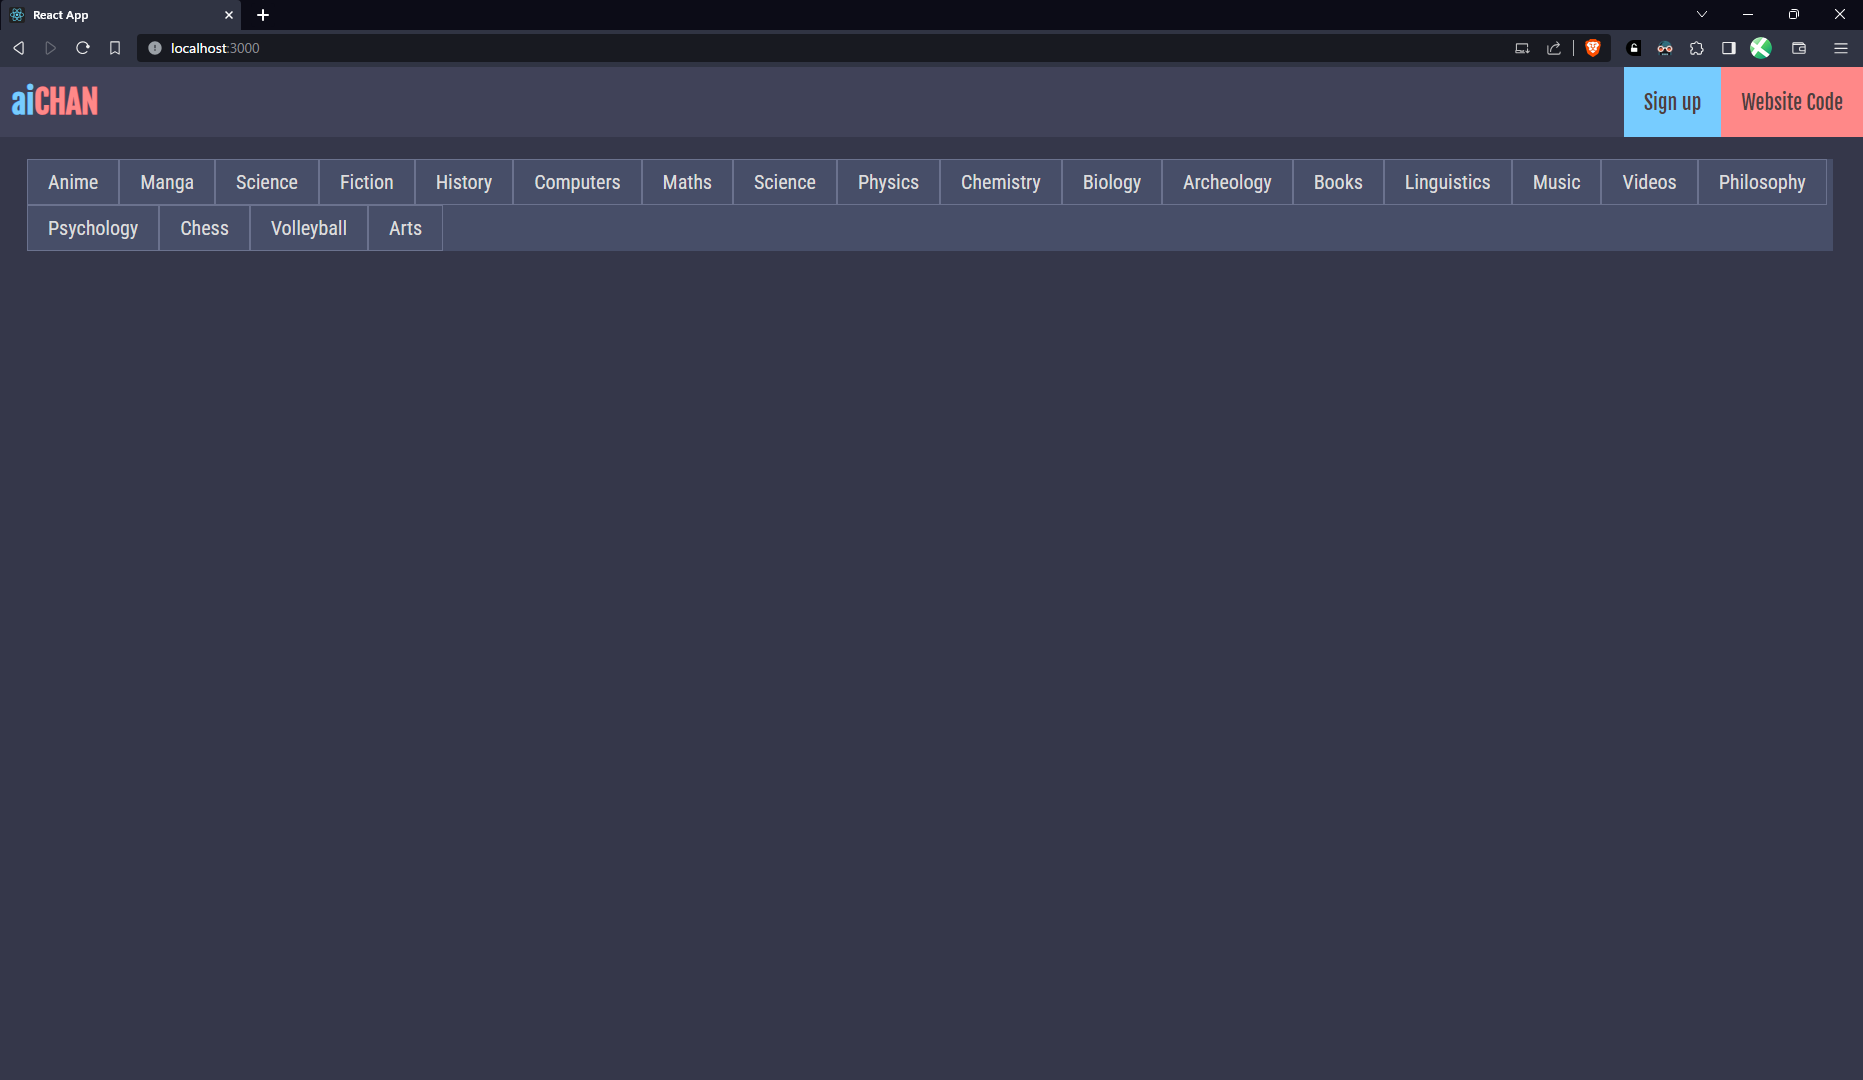
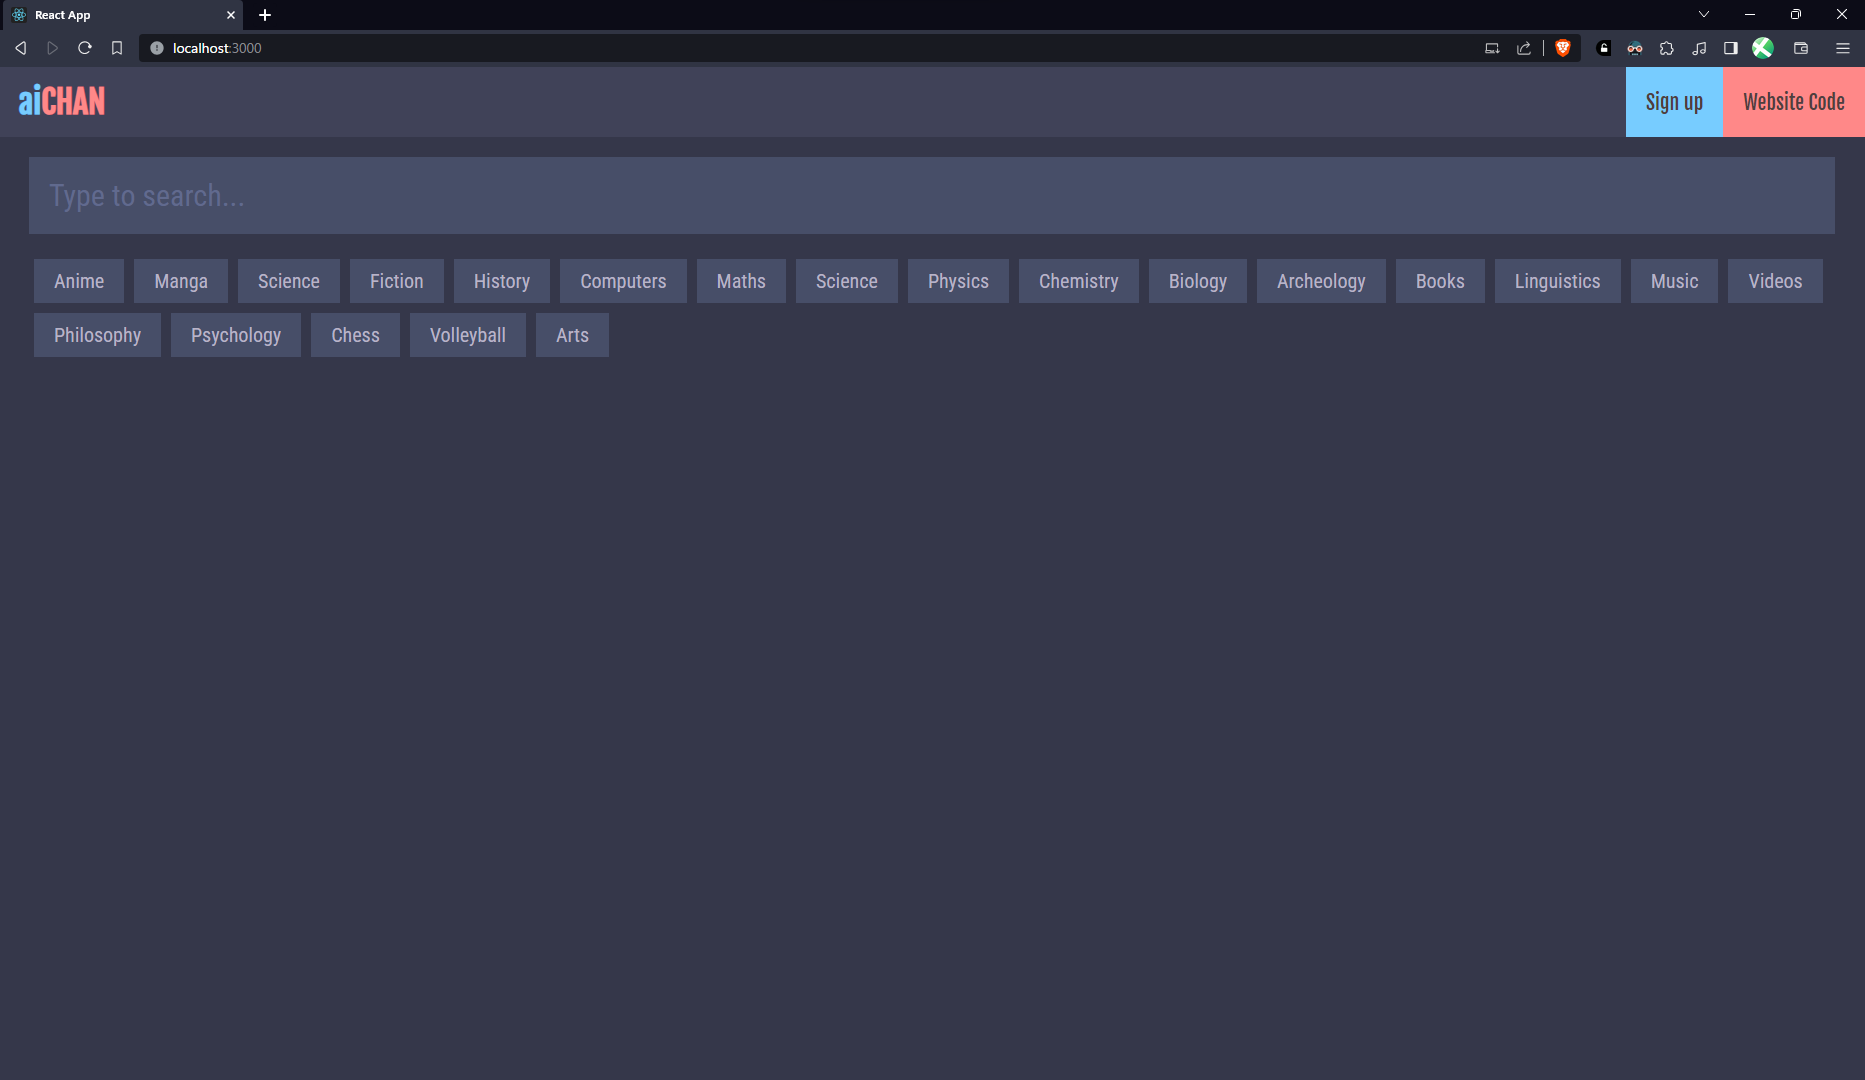
added search box (css just) (does not work as of yet)

diff --git a/react-app/src/App.js b/react-app/src/App.js
@@ -1,18 +1,19 @@
 import './App.css';
+import {SearchBar} from './components/SearchBar.js'
 
 function Navbar() {
   return (
-      <div className="banner">
-        <h1 className="aichan">ai<span className="rose-text">CHAN</span></h1>
-        <div className="banner-buttons">    
-          <a href="https://github.com/Ninth-Circle/aichan" target="_blank">
-            <button className="banner-button blue-background">Sign up</button>
-          </a>
-          <a href="https://github.com/Ninth-Circle/aichan" target="_blank">
-            <button className="banner-button rose-background">Website Code</button>
-          </a>
-        </div>
+    <div className="banner">
+      <h1 className="aichan">ai<span className="rose-text">CHAN</span></h1>
+      <div className="banner-buttons">    
+        <a href="https://github.com/Ninth-Circle/aichan" target="_blank">
+          <button className="banner-button blue-background">Sign up</button>
+        </a>
+        <a href="https://github.com/Ninth-Circle/aichan" target="_blank">
+          <button className="banner-button rose-background">Website Code</button>
+        </a>
       </div>
+    </div>
   );
 }
 
@@ -25,10 +26,17 @@ function BoardContainer() {
   return (<div className="board-container">{boardButtons}</div>);
 }
 
+function SearchBarContainer() {
+  return (
+    <div className="search-box-container"><SearchBar/></div>
+  );
+}
+
 export default function App() {
   return (
     <div className="body">
       <Navbar/>
+      <SearchBarContainer/>
       <BoardContainer/>
     </div>
   );

diff --git a/react-app/src/App.css b/react-app/src/App.css
@@ -22,14 +22,22 @@
 .body {
   background-color: #35374a;
   height: 100vh;
-  width: 100%;
-  margin-top: -21px;
+  width: auto;
+  overflow: hidden;
 }
 
 .banner {
+  top: 0;
+  left: 0;
+  right: 0;
+  display: flex;
+  position: absolute;
+  width: auto;
+  height: 70px;
   background-color: #404258;
   color: #77ccff;
 	font-family: 'FjallaOne';
+  align-items: center;
 }
 
 .banner-buttons {
@@ -51,7 +59,7 @@
 }
 
 .aichan {
-  padding: 15px;
+  margin-left: 20px;
 }
 
 .rose-background {
@@ -71,9 +79,9 @@
   border: none;
   font-family: 'RobotoCondensed';
   font-size: 20px;
+  margin: 5px;
   cursor: pointer;
-  border: 1px solid #6B728E;
-  color: #DDDDDD;
+  color: #B9B4C7;
   background-color: #474e68;
 }
 
@@ -82,5 +90,10 @@
   height: auto;
   margin-left: 30px;
   margin-right: 30px;
-  background-color: #474E68;
+  margin-top: 20px;
+  background-color: transparent;
+}
+
+.search-box-container {
+  margin-top: 90px;
 }

diff --git a/react-app/src/components/SearchBar.css b/react-app/src/components/SearchBar.css
@@ -1,0 +1,38 @@
+@font-face {
+	font-family: "RobotoCondensed";
+	src: url("../fonts/RobotoCondensed-Regular.ttf") format("truetype");
+	font-weight: normal;
+	font-style: normal;
+}
+
+@font-face {
+	font-family: "RobotoCondensed";
+	src: url("../fonts/RobotoCondensed-Bold.ttf") format("truetype");
+	font-weight: bold;
+	font-style: normal;
+}
+
+.input-wrapper {
+  width: auto;
+  margin-left: 30px;
+  margin-right: 30px;
+  background-color: #474E68;
+}
+
+input {
+  width: 100%;
+  background-color: transparent;
+  border: none;
+  font-family: "RobotoCondensed";
+  font-size: 30px;
+  padding: 20px;
+  color: #B9B4C7;
+}
+
+::placeholder {
+  color: #616a8e;
+}
+
+input:focus {
+  outline: none;
+}

diff --git a/react-app/src/components/SearchBar.js b/react-app/src/components/SearchBar.js
@@ -1,0 +1,10 @@
+import React, {useState} from 'react';
+import './SearchBar.css';
+
+export const SearchBar = () => {
+  return (
+    <div className="input-wrapper">
+      <input placeholder="Type to search..."/>
+    </div>
+  );
+} 
